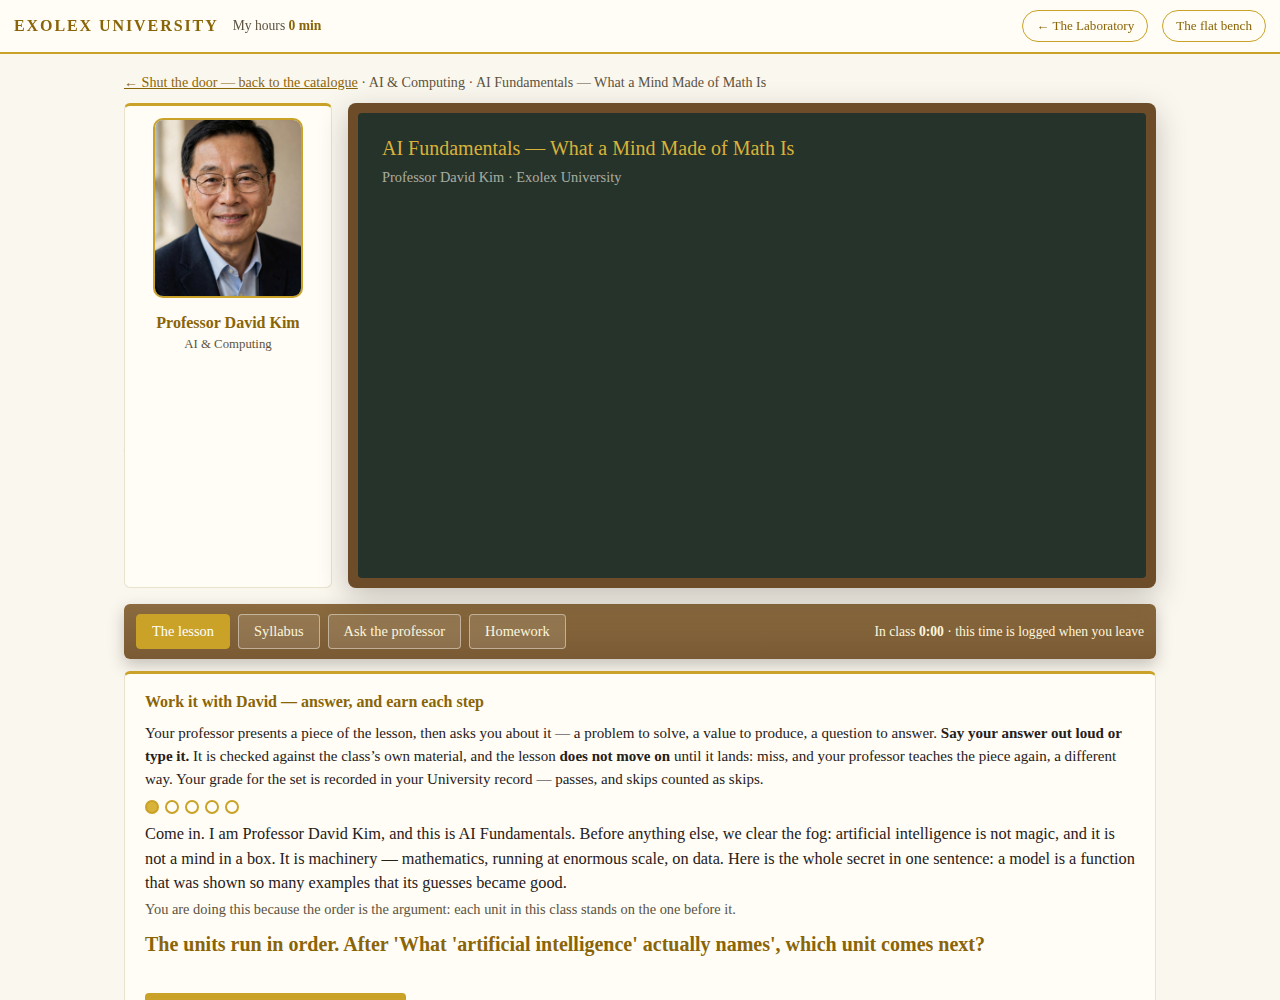
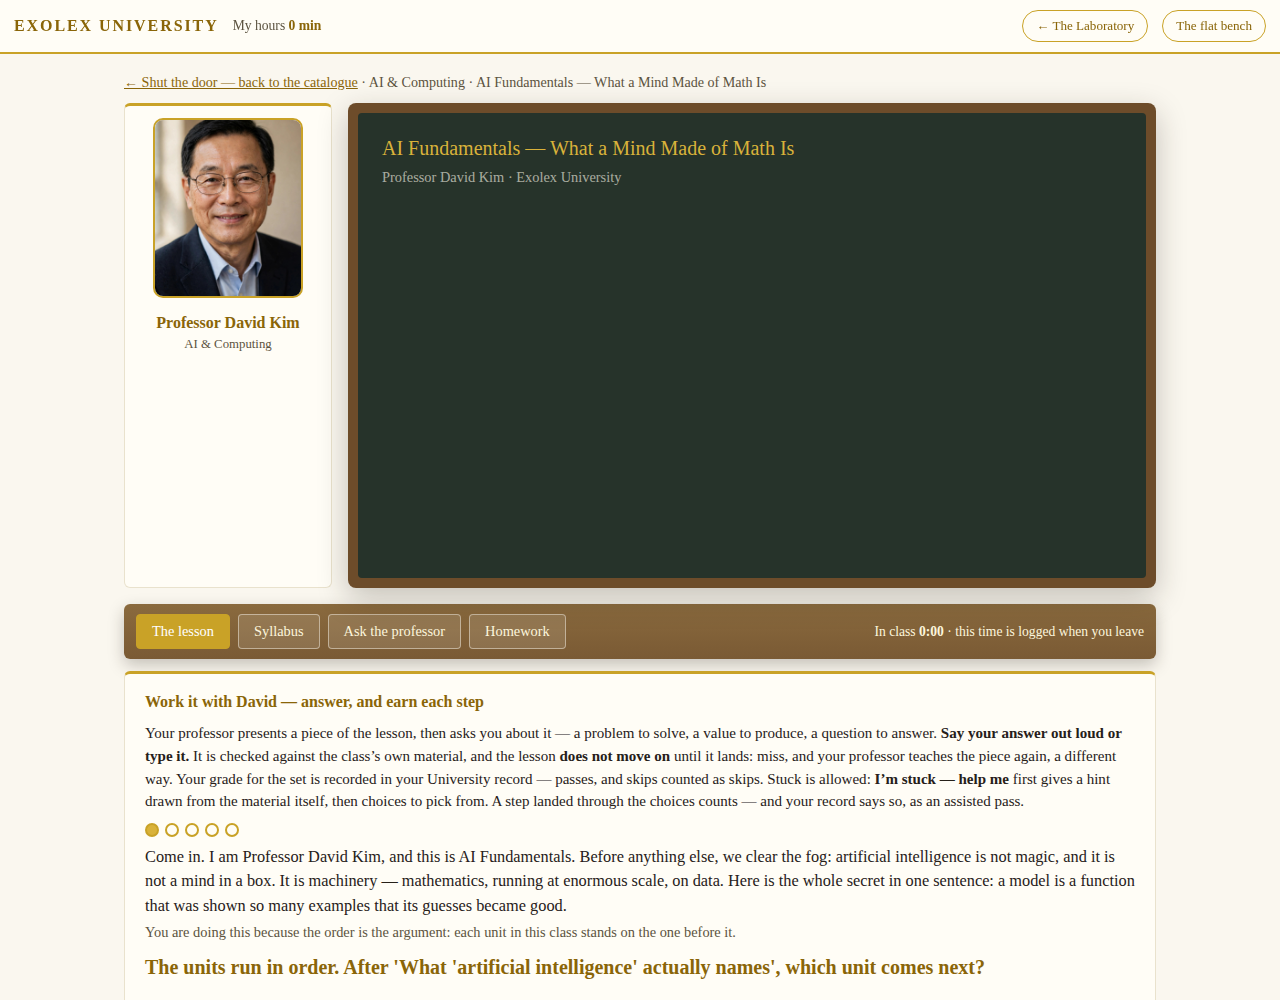
University gate: a stuck student can get help — hint, then choices, assisted pass recorded
Bill's addition (Nov 16 03:07 EST), built gate-wide in gate-ui.js so
every gated class carries it:
- 'I'm stuck — help me' on every check step (shown once the lesson
  begins, hidden on a landed step; fresh on every step).
- Level 1: a HINT rendered from the step's own re-teach chunk
  (teach2) — the material itself, nothing invented.
- Level 2: MULTIPLE CHOICE — the correct answer plus up to three
  distractors drawn from the SAME class's other steps' own answers
  (same-kind siblings first; a number step offers its material's own
  printed display values; a keywords capstone's correct choice is
  its own key ideas, from its own key). No fabricated facts.
- A correct pick passes the step as an ASSISTED pass: the gate-step
  entry in dave_lab_log carries assisted:true (gate-core passthrough,
  written only when true), the student is told so in the status line,
  the class-grade entry carries the assisted count, and the grade
  panel prints it. A typed pass after the choices were shown is
  likewise recorded assisted; a hint alone is not (it is the same
  re-teach a miss would bring).
- Wrong picks hold the step, disable that choice, and count as
  attempts.

Verified: verify-ai-path.cjs section 6 drives the full flow on AI
Fundamentals in a fresh browser context — hint from the step's own
material, four choices all the class's own answers, wrong pick held,
right pick advanced, log entry assisted:true. All 29 checks pass;
[…]

Changed region(s): [[0.0938, 0.775, 0.875, 1.0]]

diff --git a/lab/university/gate-ui.js b/lab/university/gate-ui.js
@@ -40,6 +40,11 @@
     '#gtProgress{font-size:.85rem;color:var(--ink-soft)}',
     '#gtSkip{font-size:.8rem;color:var(--ink-soft);white-space:nowrap}',
     '#gtGrade{border:1px solid #46a35a;background:#f2f9f2;border-radius:6px;padding:12px 16px;margin-top:12px}',
+    '#gtHint{display:none;border:1px solid var(--gold);background:#fdf6dd;border-radius:6px;padding:10px 14px;margin:10px 0 0;font-size:.96rem}',
+    '#gtChoices{display:none;margin:10px 0 0}',
+    '#gtChoices .gtChoice{display:block;width:100%;text-align:left;margin:6px 0;background:var(--panel);border:1px solid var(--gold);color:var(--ink);border-radius:6px;padding:9px 14px;font-family:inherit;font-size:.98rem;cursor:pointer}',
+    '#gtChoices .gtChoice:hover:not(:disabled){background:var(--gold);color:#fff}',
+    '#gtChoices .gtChoice:disabled{opacity:.45;cursor:default}',
     '.gtSep{border:0;border-top:1px solid var(--line);margin:18px 0 10px}'
   ].join('\n');
 
@@ -51,7 +56,11 @@
     'against the class\u2019s own material, and the lesson <b>does not ' +
     'move on</b> until it lands: miss, and your professor teaches the ' +
     'piece again, a different way. Your grade for the set is recorded ' +
-    'in your University record — passes, and skips counted as skips.</p>' +
+    'in your University record — passes, and skips counted as skips. ' +
+    'Stuck is allowed: <b>I\u2019m stuck — help me</b> first gives a ' +
+    'hint drawn from the material itself, then choices to pick from. ' +
+    'A step landed through the choices counts — and your record says ' +
+    'so, as an assisted pass.</p>' +
     '<div id="gtDots"></div>' +
     '<div id="gtTeach"></div>' +
     '<div id="gtWhy"></div>' +
@@ -64,8 +73,11 @@
       '<button class="act" id="gtCheck" style="display:none">Check my answer</button>' +
       '<button class="ghost" id="gtMic" style="display:none">\uD83C\uDFA4 Answer out loud</button>' +
       '<button class="ghost" id="gtHear" style="display:none">\uD83D\uDD0A Hear that again</button>' +
+      '<button class="ghost" id="gtHelp" style="display:none">I\u2019m stuck — help me</button>' +
     '</div>' +
     '<div id="gtStatus"></div>' +
+    '<div id="gtHint"></div>' +
+    '<div id="gtChoices"></div>' +
     '<div id="gtFoot"><span id="gtProgress"></span>' +
     '<a href="#" id="gtSkip" style="display:none">skip for now \u2192</a></div>' +
     '<div id="gtGrade" style="display:none"></div>' +
@@ -108,6 +120,7 @@
   /* ---------------- state ---------------- */
   var data = null, gCls = null, gProf = null;
   var idx = 0, attempts = 0, sessionAttempts = 0, praiseCount = 0;
+  var helpLevel = 0;   /* per step: 0 none · 1 hint shown · 2 choices shown */
   var states = {}, started = false, busy = false, dirty = false, gradeWritten = false;
   var stream = null, actx = null, analyser = null, waveRAF = null;
   var rec = null, listening = false, heardFinal = null;
@@ -223,6 +236,13 @@
     if (!keepHeard) $('gtHeard').textContent = '';
     $('gtInput').value = '';
     $('gtHear').style.display = (started && st.audio) ? '' : 'none';
+    /* help starts fresh on every step */
+    helpLevel = 0;
+    var hint = $('gtHint'), ch = $('gtChoices'), hb = $('gtHelp');
+    hint.style.display = 'none'; hint.innerHTML = '';
+    ch.style.display = 'none'; ch.innerHTML = '';
+    hb.textContent = 'I\u2019m stuck — help me';
+    hb.style.display = (started && states[i] !== 'pass') ? '' : 'none';
     renderDots(); renderProgress();
     if (states[i] === 'pass') {
       setStatus('This one is landed \u2713 — say it again to keep it warm, or tap another dot.', 'good');
@@ -247,23 +267,28 @@
     var res = G.checkAnswer(step(), said);
     $('gtHeard').textContent = 'Your answer: \u201C' + said + '\u201D';
     renderProgress();
-    if (res.pass) onPass();
+    /* a pass after the choices were shown was landed with the answer
+       set in front of the student — recorded as assisted, honestly */
+    if (res.pass) onPass(helpLevel >= 2);
     else onMiss(res);
   }
 
-  function onPass() {
+  function onPass(assisted) {
     var isNew = states[idx] !== 'pass';
     if (isNew) {
       states[idx] = 'pass';
       dirty = true;
       G.recordStep(storage, {
         date: new Date().toISOString(), classId: gCls.id, classTitle: gCls.title,
-        step: idx, status: 'pass', attempts: attempts
+        step: idx, status: 'pass', attempts: attempts,
+        assisted: !!assisted
       });
     }
     showBoardCheck();   /* the big green check lands WITH the praise */
     var pi = praiseCount++ % data.praise.length;
-    setStatus(data.praise[pi], 'good');
+    setStatus(data.praise[pi] + (assisted
+      ? ' That one landed with help — it counts, and your record says so: an assisted pass.'
+      : ''), 'good');
     renderDots(); renderProgress();
     playClip(data.praiseAudio && data.praiseAudio[pi]).then(function () {
       busy = false;
@@ -284,6 +309,133 @@
     });
   }
 
+  /* ---------------- help: hint, then choices (Bill, Nov 16 03:07) ----
+     A stuck student can ask for help. Level 1 is a HINT drawn from
+     the step's own material — its re-teach chunk, nothing invented.
+     Level 2 is MULTIPLE CHOICE: the correct answer plus distractors
+     drawn from the SAME class's other steps' own answers — real
+     material, never fabricated facts. Landing a step through the
+     choices is an ASSISTED pass, recorded as one. */
+  function answerText(st) {
+    if (!st) return null;
+    if (st.kind === 'number') return st.disp || String(st.answer);
+    if (st.kind === 'keywords') return null;   /* no single answer string */
+    return st.answer != null ? String(st.answer) : null;
+  }
+  function correctText(st) {
+    if (st.kind === 'keywords') {
+      /* the capstone's correct choice is its own key ideas — the
+         terms its worked answer stands on, from its own key */
+      return 'An answer built on: ' + st.keywords.map(function (g) {
+        return g[0];
+      }).join(' · ');
+    }
+    return answerText(st);
+  }
+  function normForChoice(s) {
+    return String(s || '').toLowerCase().replace(/\s+/g, ' ').trim();
+  }
+  function buildChoices() {
+    var st = step();
+    var correct = correctText(st);
+    var pool = [], seen = {};
+    seen[normForChoice(correct)] = true;
+    /* same-kind siblings first (a value among values, a title among
+       titles), then the class's other answers — all its own material */
+    var sibs = data.steps.filter(function (o, i) { return i !== idx; });
+    sibs.sort(function (a, b) {
+      return (b.kind === st.kind ? 1 : 0) - (a.kind === st.kind ? 1 : 0);
+    });
+    sibs.forEach(function (o) {
+      var t = answerText(o);
+      if (!t) return;
+      var n = normForChoice(t);
+      if (seen[n]) return;
+      seen[n] = true;
+      pool.push(t);
+    });
+    var opts = [{ t: correct, ok: true }].concat(
+      pool.slice(0, 3).map(function (t) { return { t: t, ok: false }; }));
+    /* a plain shuffle — position teaches nothing */
+    for (var i = opts.length - 1; i > 0; i--) {
+      var j = Math.floor(Math.random() * (i + 1));
+      var tmp = opts[i]; opts[i] = opts[j]; opts[j] = tmp;
+    }
+    return opts;
+  }
+  function showHint() {
+    helpLevel = 1;
+    var st = step();
+    var hint = $('gtHint');
+    hint.innerHTML = '';
+    var b = document.createElement('b');
+    b.textContent = 'Hint — from the material itself: ';
+    hint.appendChild(b);
+    hint.appendChild(document.createTextNode(st.teach2 || st.teach || ''));
+    hint.style.display = '';
+    $('gtHelp').textContent = 'Still stuck — show me the choices';
+    setStatus('There is the piece again, the other way in. Try once ' +
+      'more — or take the choices below the hint.', '');
+  }
+  function showChoices() {
+    helpLevel = 2;
+    var host = $('gtChoices');
+    host.innerHTML = '';
+    var head = document.createElement('p');
+    head.style.margin = '0 0 4px';
+    head.innerHTML = '<b>Pick the one the material supports.</b> ' +
+      'Every choice here is real material from this class — only one ' +
+      'answers this step. Landing it this way is recorded as an ' +
+      'assisted pass.';
+    host.appendChild(head);
+    buildChoices().forEach(function (o) {
+      var btn = document.createElement('button');
+      btn.className = 'gtChoice';
+      btn.textContent = o.t;
+      btn.addEventListener('click', function () { pickChoice(btn, o.ok); });
+      host.appendChild(btn);
+    });
+    host.style.display = '';
+    $('gtHelp').style.display = 'none';
+    setStatus('Choices are up. Pick the one the material supports.', '');
+  }
+  function pickChoice(btn, ok) {
+    if (busy || !started) return;
+    attempts++; sessionAttempts++;
+    renderProgress();
+    if (!ok) {
+      btn.disabled = true;
+      setStatus('Not that one — it belongs to another step of this ' +
+        'class. Look at the hint once more and pick the one this ' +
+        'step\u2019s material supports.', 'bad');
+      return;
+    }
+    busy = true;
+    $('gtChoices').style.display = 'none';
+    onPass(true);
+  }
+  function onHelp() {
+    if (!started || busy || states[idx] === 'pass') return;
+    if (helpLevel === 0) showHint();
+    else if (helpLevel === 1) showChoices();
+  }
+  /* assisted passes recorded for this class, among its passed steps */
+  function assistedCount() {
+    var n = 0;
+    try {
+      var log = JSON.parse(storage.getItem('dave_lab_log') || '[]');
+      var seen = {};
+      log.forEach(function (e) {
+        if (e && e.kind === 'gate-step' && e.classId === gCls.id &&
+            e.status === 'pass' && e.assisted) seen[e.step] = true;
+      });
+      Object.keys(seen).forEach(function (k) {
+        if (states[k] === 'pass') n++;
+      });
+    } catch (e) { /* the count is a courtesy; the entries stand */ }
+    return n;
+  }
+
   function advance() {
     var total = data.steps.length;
     for (var k = 1; k <= total; k++) {
@@ -299,7 +451,8 @@
     G.recordGrade(storage, {
       date: new Date().toISOString(), classId: gCls.id, classTitle: gCls.title,
       states: states, total: data.steps.length,
-      attempts: sessionAttempts, complete: complete
+      attempts: sessionAttempts, complete: complete,
+      assisted: assistedCount()
     });
   }
 
@@ -315,8 +468,10 @@
     panel.appendChild(h);
     var p = document.createElement('p');
     p.style.margin = '6px 0 0';
+    var assistedN = assistedCount();
     p.textContent = g.passed + ' of ' + g.total + ' steps landed' +
       (g.skipped ? ', ' + g.skipped + ' skipped (counted as skips, never as passes)' : '') +
+      (assistedN ? ', ' + assistedN + ' landed with help (recorded as assisted passes)' : '') +
       ' \u2014 ' + g.percent + '%. ' +
       (g.percent === 100
         ? 'Every step earned. That is the whole lesson, proven in session.'
@@ -417,7 +572,7 @@
     $('gtTitle').textContent = 'Work it with ' + profFirst() + ' \u2014 answer, and earn each step';
     $('gtBegin').style.display = '';
     $('gtBegin').textContent = 'Begin \u2014 ' + profFirst() + ' presents the first piece';
-    ['gtCheck', 'gtMic', 'gtHear', 'gtSkip'].forEach(function (id) { $(id).style.display = 'none'; });
+    ['gtCheck', 'gtMic', 'gtHear', 'gtSkip', 'gtHelp'].forEach(function (id) { $(id).style.display = 'none'; });
     $('gtInput').style.display = 'none';
     $('gtGrade').style.display = 'none';
     $('gtWave').style.display = 'none';
@@ -458,6 +613,7 @@
     $('gtBegin').addEventListener('click', begin);
     $('gtCheck').addEventListener('click', function () { check(); });
     $('gtMic').addEventListener('click', startListening);
+    $('gtHelp').addEventListener('click', onHelp);
     $('gtHear').addEventListener('click', function () { if (!busy) playClip(step().audio); });
     $('gtSkip').addEventListener('click', function (e) {
       e.preventDefault();

diff --git a/lab/university/gate-core.js b/lab/university/gate-core.js
@@ -168,12 +168,17 @@
   }
 
   function recordStep(storage, opts) {
-    return append(storage, {
+    var entry = {
       date: opts.date, minutes: 0, stations: ['university'], stepsCompleted: 0,
       classId: opts.classId, classTitle: opts.classTitle,
       kind: 'gate-step', step: opts.step, status: opts.status,
       attempts: opts.attempts || 0
-    });
+    };
+    /* a pass landed through the multiple-choice help is a pass, and
+       the record says how it was landed: assisted — distinguishable
+       from an unassisted pass forever (Bill's honest-grading rule) */
+    if (opts.assisted) entry.assisted = true;
+    return append(storage, entry);
   }
 
   /* step states for one class: {index: 'pass'|'skip'} — a pass always
@@ -205,14 +210,16 @@
 
   function recordGrade(storage, opts) {
     var g = gradeFor(opts.states, opts.total);
-    return append(storage, {
+    var entry = {
       date: opts.date, minutes: 0, stations: ['university'], stepsCompleted: g.passed,
       classId: opts.classId, classTitle: opts.classTitle,
       kind: 'class-grade',
       passed: g.passed, skipped: g.skipped, total: g.total,
       attempts: opts.attempts || 0,
       percent: g.percent, complete: !!opts.complete
-    });
+    };
+    if (opts.assisted) entry.assisted = opts.assisted;
+    return append(storage, entry);
   }
 
   var api = {
